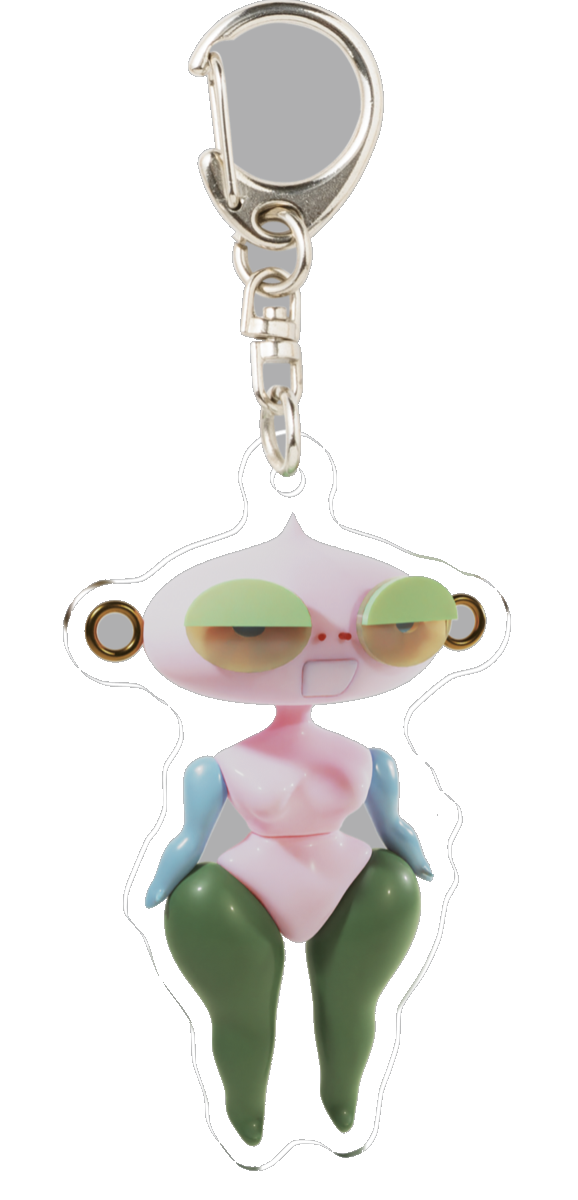
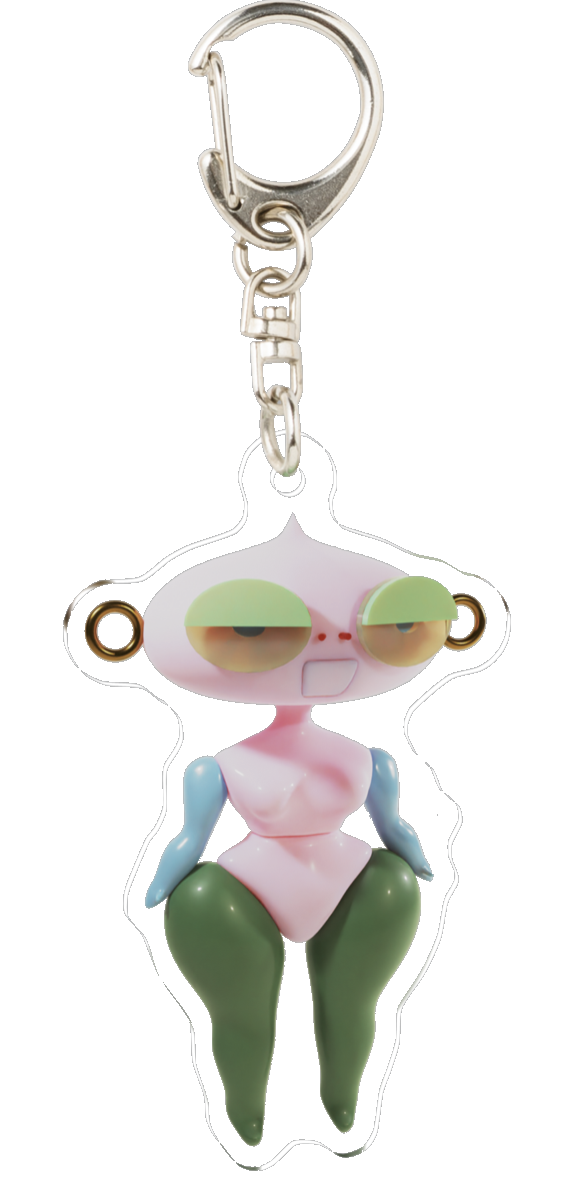
アクキーモックの閉領域グレー除去(3種)・レコマルSHOPページの定番色表示を実物モックに

diff --git a/characters/gmc.html b/characters/gmc.html
@@ -68,7 +68,7 @@
 </header>
 <div class="char-hero">
   <div class="char-visual" id="charVisual">
-    <img src="../img/colors_nobg/gmc_red.png" alt="レコマル" id="charImg">
+    <img src="../img/products_t/gmc_red.png" alt="レコマル アクリルキーホルダー" id="charImg">
   </div>
   <div class="char-info">
     <div class="tag-row"><span class="tag">MARU</span><span class="tag">アクキー</span><span class="tag">50mm</span><span class="tag">NFCタグ付き</span></div>
@@ -123,7 +123,7 @@ colors.forEach((c, i) => {
     document.querySelectorAll('.color-card').forEach(x => x.classList.remove('selected'));
     card.classList.add('selected');
     selected = colors[i];
-    document.getElementById('charImg').src = `${IMG_DIR}/${CHAR_ID}_${c.key}.png`;
+    document.getElementById('charImg').src = c.key===HERO_COLOR ? `../img/products_t/${CHAR_ID}_${c.key}.png` : `${IMG_DIR}/${CHAR_ID}_${c.key}.png`;
     document.getElementById('selectedLabel').textContent = c.name;
     document.getElementById('barName').textContent = c.name;
     updateBuyBar();
